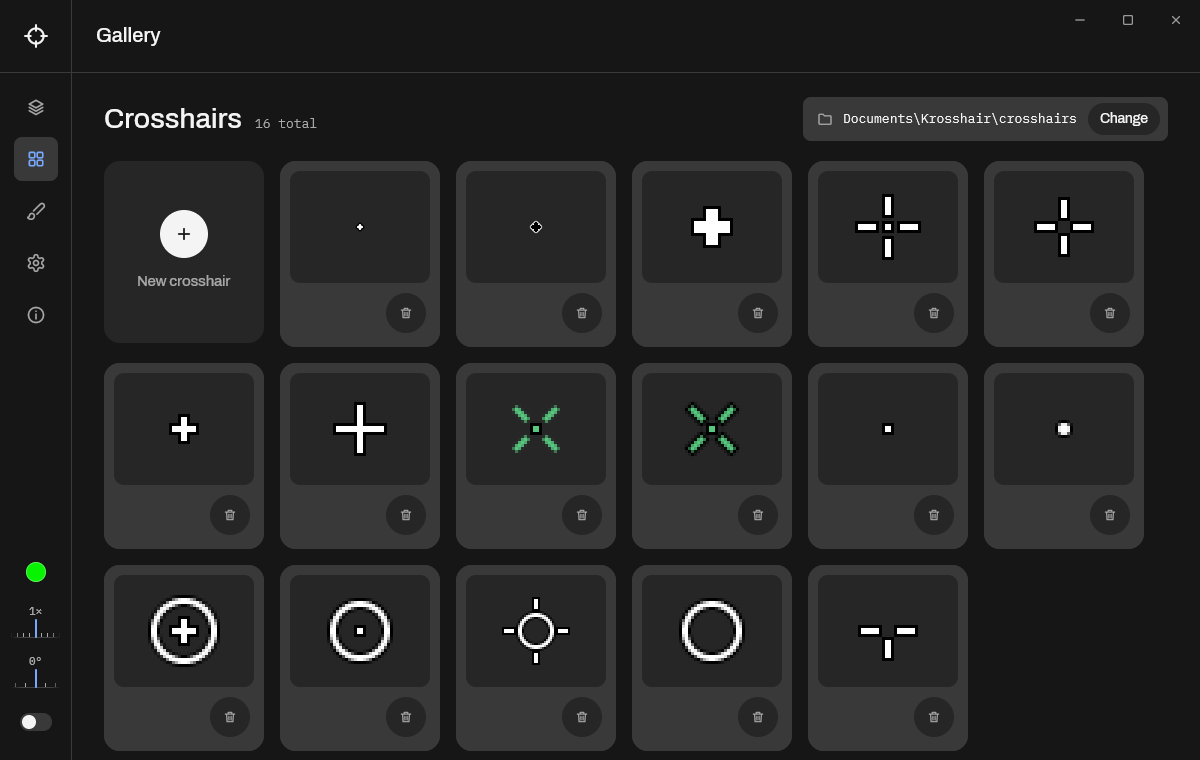
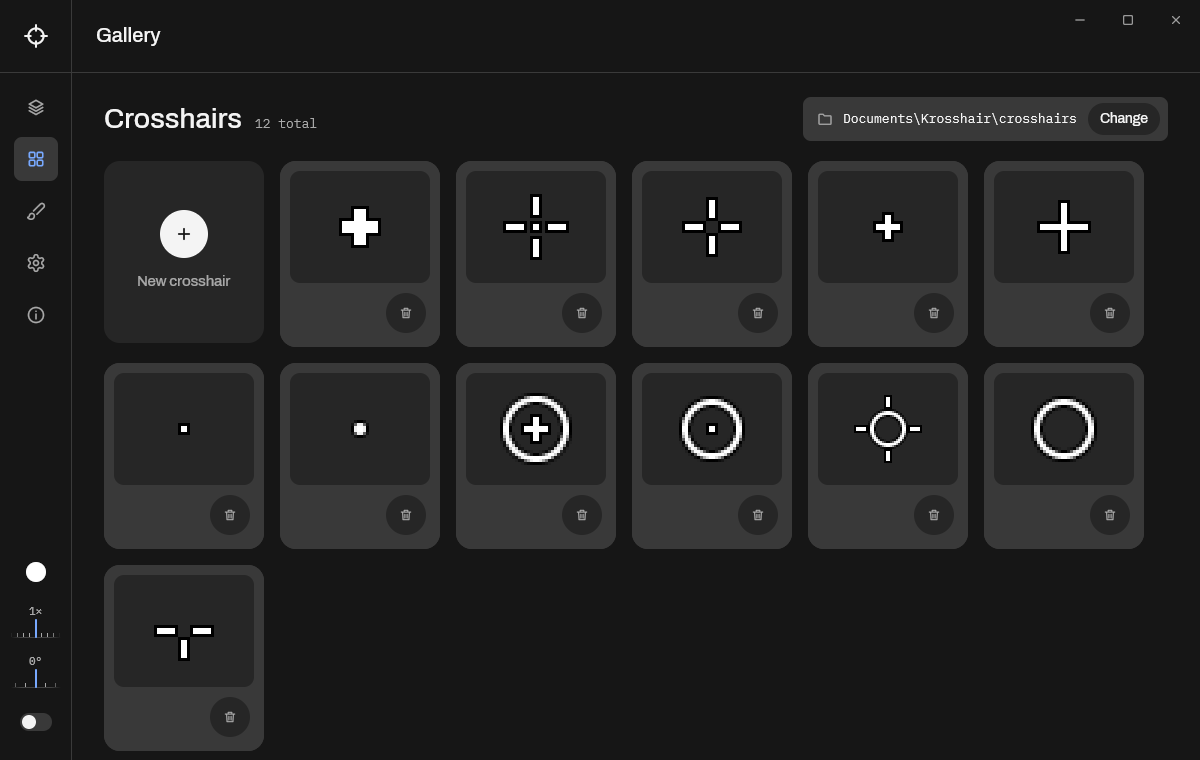
docs: show the window on a desktop in the README preview
The README now shows docs/images/preview.png: the gallery screenshot
with rounded corners, a soft shadow and a faint edge, on a wallpaper.
tools/make-preview.ps1 draws it from docs/images/gallery.png; the
wallpaper is generated there, so the picture has no third-party art.

The gallery screenshot was taken again with a fresh gallery, so it
shows the built-in crosshairs only.

diff --git a/docs/development.md b/docs/development.md
@@ -24,6 +24,7 @@ Common commands:
 | `cargo test` | Checks the rasterizer, the atlas layout, the configuration and the update check |
 | `cargo clippy --all-targets` | Lints |
 | `.\tools\make-icon.ps1` | Draws the app icon again after the logo changes |
+| `.\tools\make-preview.ps1` | Draws the README preview, `docs/images/preview.png`, from the window screenshot `docs/images/gallery.png` (rounded corners, shadow, generated wallpaper) |
 | `.\target\release\krosshair.exe --screen settings` | Opens a screen right away |
 
 Only one copy runs at a time, so close the real one before starting a test build. Testing against

diff --git a/README.md b/README.md
@@ -20,7 +20,7 @@
 	</a>
 </p>
 
-<img src="docs/images/gallery.png" alt="krosshair app preview">
+<img src="docs/images/preview.png" alt="krosshair app preview">
 
 ## Features
 
